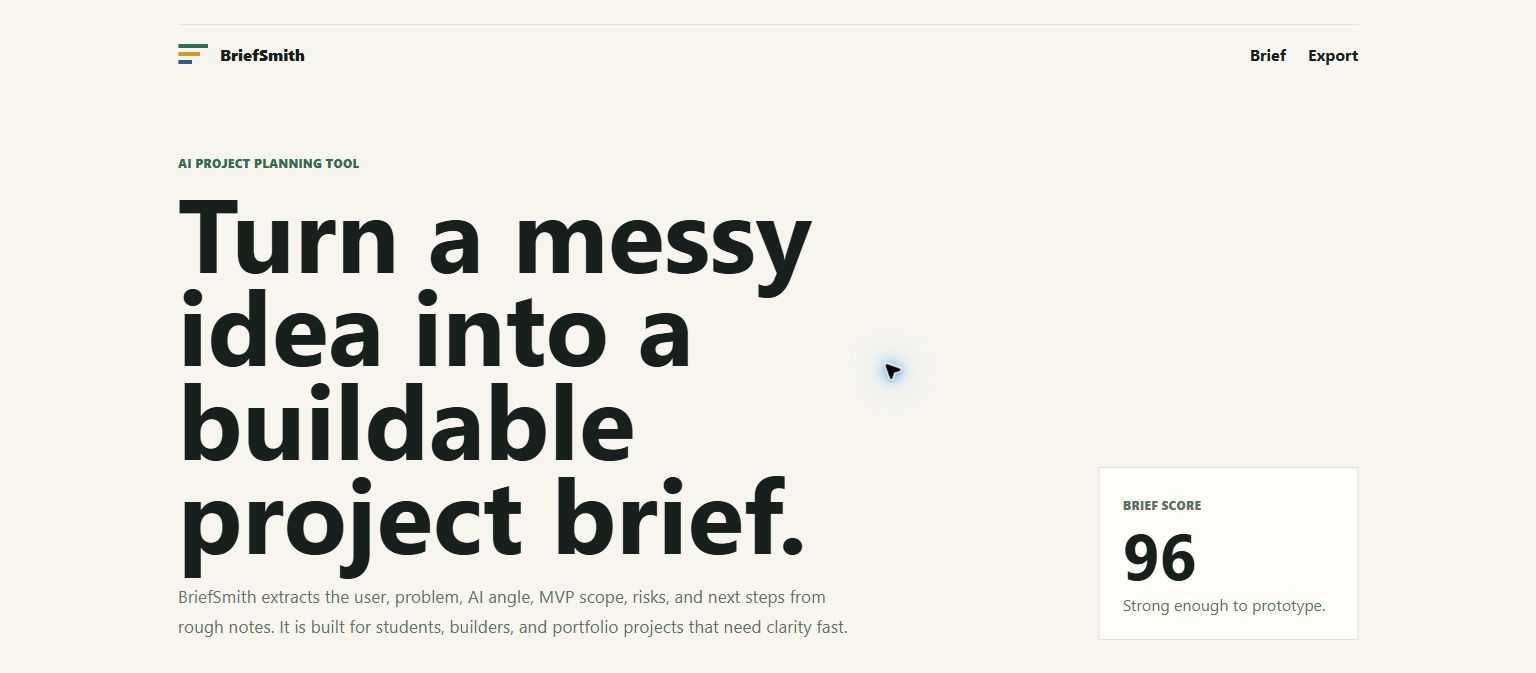
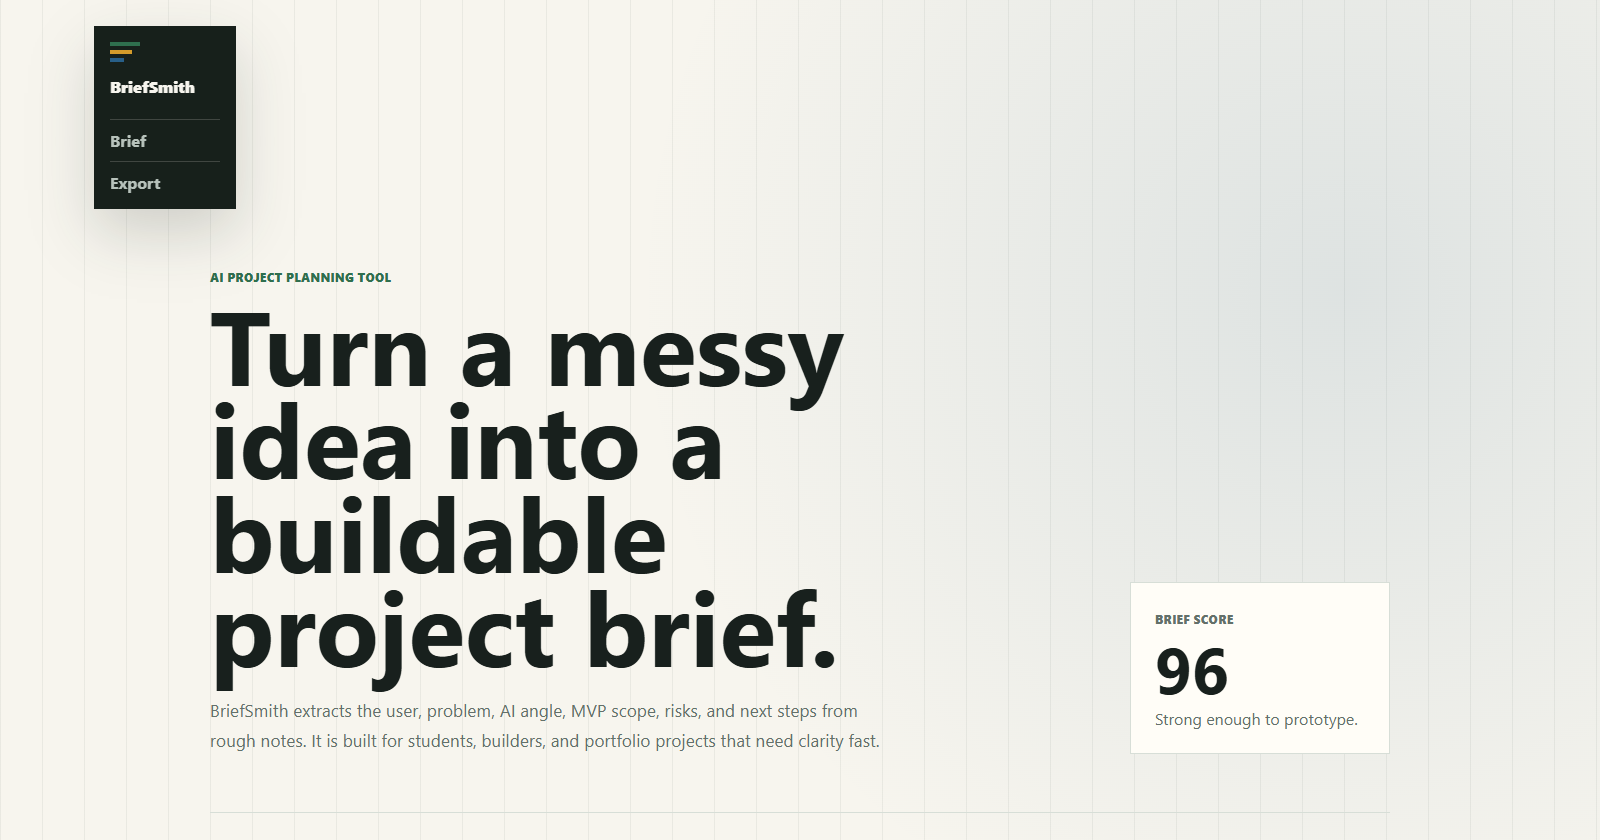
design: replace generic topbar with notebook identity

diff --git a/src/styles.css b/src/styles.css
@@ -17,7 +17,11 @@
 body {
   margin: 0;
   min-height: 100vh;
-  background: var(--paper);
+  background:
+    radial-gradient(circle at 84% 12%, rgba(40, 95, 136, 0.12), transparent 28%),
+    linear-gradient(90deg, rgba(24, 32, 29, 0.06) 1px, transparent 1px),
+    var(--paper);
+  background-size: auto, 42px 42px, auto;
   color: var(--ink);
   font-family: Inter, ui-sans-serif, system-ui, -apple-system, BlinkMacSystemFont, "Segoe UI", sans-serif;
 }
@@ -28,34 +32,40 @@ textarea {
 }
 
 .shell {
+  position: relative;
   width: min(1180px, calc(100% - 32px));
   margin: 0 auto;
-  padding: 24px 0 40px;
+  padding: 52px 0 40px;
 }
 
-.topbar,
 .workspace,
 .export-row {
   border-top: 1px solid var(--line);
 }
 
 .topbar {
-  display: flex;
-  justify-content: space-between;
-  align-items: center;
-  padding: 18px 0;
+  position: fixed;
+  left: max(18px, calc((100vw - 1180px) / 2 - 116px));
+  top: 26px;
+  z-index: 10;
+  display: grid;
+  gap: 22px;
+  width: 142px;
+  padding: 16px;
+  background: #17201b;
+  color: #f7f5ee;
+  box-shadow: 0 24px 60px rgba(24, 32, 29, 0.18);
 }
 
 .brand,
 nav a {
-  color: var(--ink);
+  color: inherit;
   text-decoration: none;
 }
 
 .brand {
-  display: flex;
-  align-items: center;
-  gap: 12px;
+  display: grid;
+  gap: 14px;
   font-weight: 800;
 }
 
@@ -82,10 +92,15 @@ nav a {
 }
 
 nav {
-  display: flex;
-  gap: 22px;
-  color: var(--muted);
+  display: grid;
+  gap: 10px;
+  color: #b7c2bb;
   font-weight: 700;
+}
+
+nav a {
+  border-top: 1px solid rgba(247, 245, 238, 0.18);
+  padding-top: 10px;
 }
 
 .hero {
@@ -93,7 +108,8 @@ nav {
   grid-template-columns: 1fr 260px;
   gap: 36px;
   align-items: end;
-  padding: 72px 0 58px;
+  min-height: min(760px, calc(100vh - 52px));
+  padding: 92px 0 58px;
 }
 
 .eyebrow {
@@ -259,6 +275,16 @@ pre {
 }
 
 @media (max-width: 820px) {
+  .shell {
+    padding-top: 18px;
+  }
+
+  .topbar {
+    position: static;
+    width: 100%;
+    margin-bottom: 28px;
+  }
+
   .hero,
   .workspace,
   .brief-grid {